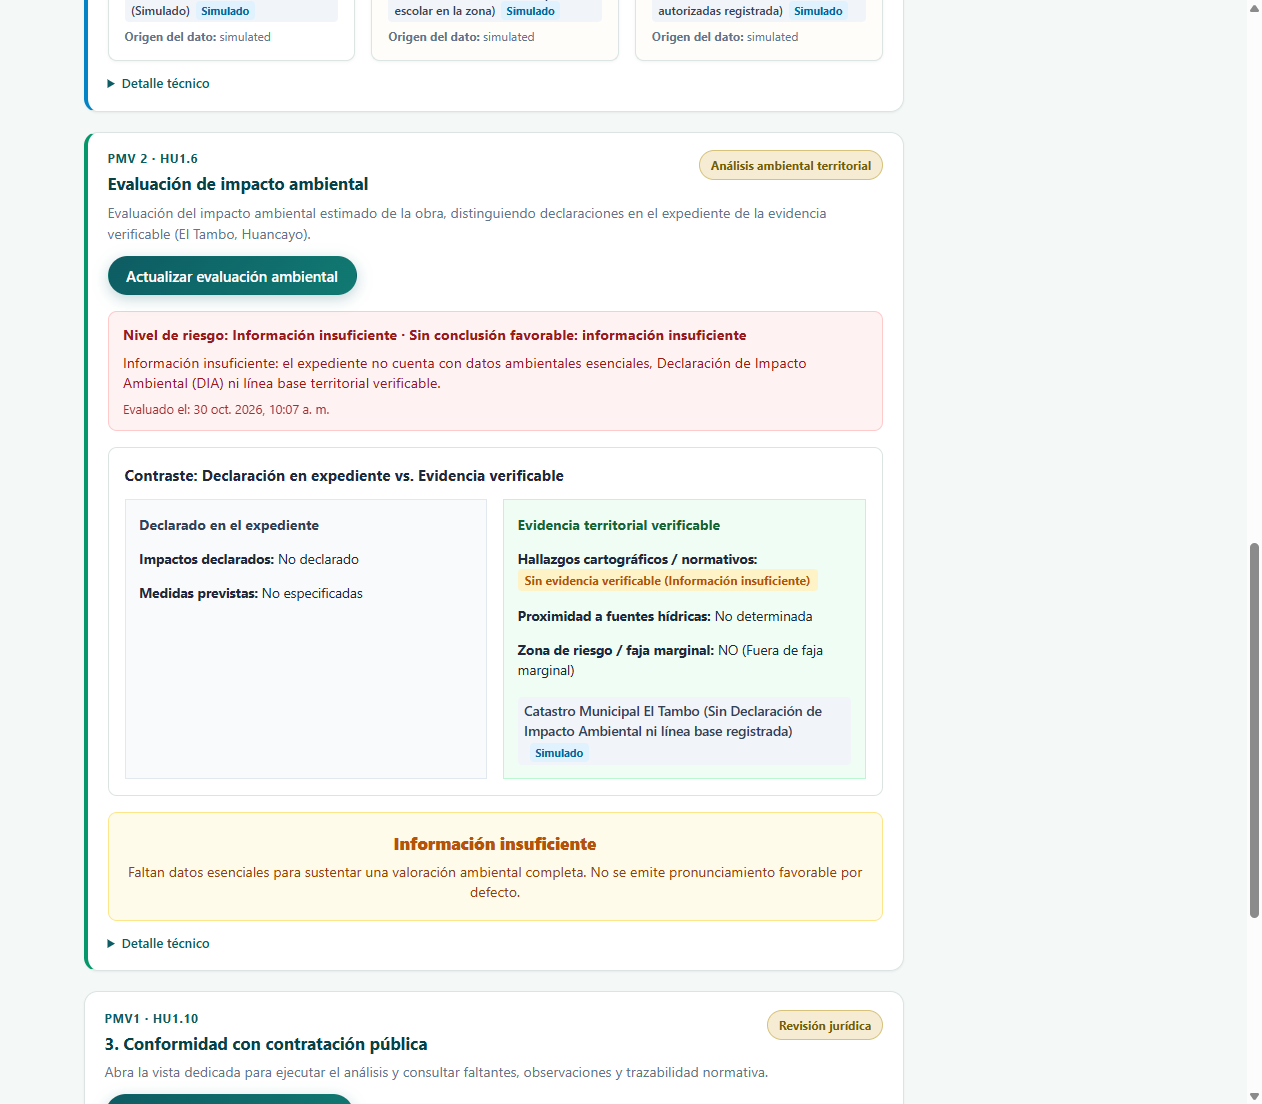
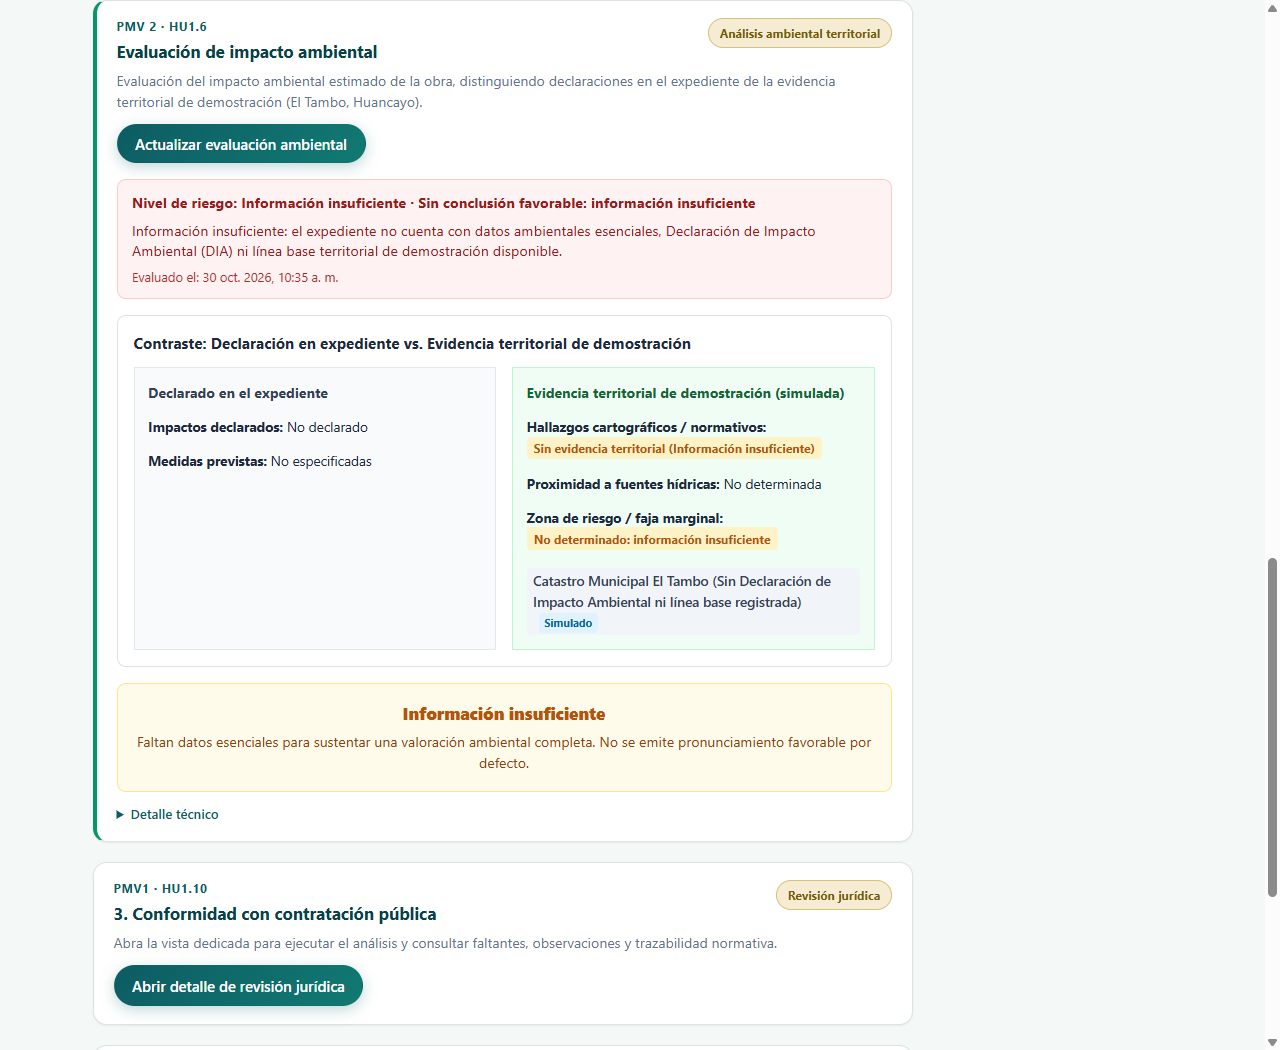
fix: corregir estado indeterminado de riesgo ambiental y desacoplar migracion

diff --git a/frontend/src/features/proyecto/ProyectoDetallePage.tsx b/frontend/src/features/proyecto/ProyectoDetallePage.tsx
@@ -380,7 +380,7 @@ export function ProyectoDetallePage() {
               <span className="review-badge">Análisis ambiental territorial</span>
             </div>
             <p className="flow-hint">
-              Evaluación del impacto ambiental estimado de la obra, distinguiendo declaraciones en el expediente de la evidencia verificable (El Tambo, Huancayo).
+              Evaluación del impacto ambiental estimado de la obra, distinguiendo declaraciones en el expediente de la evidencia territorial de demostración (El Tambo, Huancayo).
             </p>
 
             {hasRole('PLANNER') && (
@@ -432,7 +432,7 @@ export function ProyectoDetallePage() {
                 </Alert>
 
                 <div className="env-contrast-panel">
-                  <h3>Contraste: Declaración en expediente vs. Evidencia verificable</h3>
+                  <h3>Contraste: Declaración en expediente vs. Evidencia territorial de demostración</h3>
                   <div className="env-contrast-grid">
                     <div className="env-contrast-col env-col-declared">
                       <h4>Declarado en el expediente</h4>
@@ -447,11 +447,11 @@ export function ProyectoDetallePage() {
                     </div>
 
                     <div className="env-contrast-col env-col-evidence">
-                      <h4>Evidencia territorial verificable</h4>
+                      <h4>Evidencia territorial de demostración (simulada)</h4>
                       <p>
                         <strong>Hallazgos cartográficos / normativos:</strong>{' '}
                         {environmentalAssessment.declared_vs_evidence.verifiable_evidence || (
-                          <span className="env-insufficient-badge">Sin evidencia verificable (Información insuficiente)</span>
+                          <span className="env-insufficient-badge">Sin evidencia territorial (Información insuficiente)</span>
                         )}
                       </p>
                       <p>
@@ -463,9 +463,13 @@ export function ProyectoDetallePage() {
                       </p>
                       <p>
                         <strong>Zona de riesgo / faja marginal:</strong>{' '}
-                        {environmentalAssessment.declared_vs_evidence.is_in_protected_or_risk_area
-                          ? 'SÍ (Faja marginal intangible / Riesgo alto PDM)'
-                          : 'NO (Fuera de faja marginal)'}
+                        {environmentalAssessment.declared_vs_evidence.is_in_protected_or_risk_area === true ? (
+                          'SÍ (Faja marginal intangible / Riesgo alto PDM)'
+                        ) : environmentalAssessment.declared_vs_evidence.is_in_protected_or_risk_area === false ? (
+                          'NO (Fuera de faja marginal)'
+                        ) : (
+                          <span className="env-insufficient-badge">No determinado: información insuficiente</span>
+                        )}
                       </p>
                       <div className="social-source-tag">
                         {environmentalAssessment.declared_vs_evidence.evidence_source}

diff --git a/frontend/src/types/pmv1.ts b/frontend/src/types/pmv1.ts
@@ -164,7 +164,7 @@ export interface EnvironmentalDeclaredVsEvidence {
   evidence_source: string
   is_simulated: boolean
   proximity_to_water_meters?: number | null
-  is_in_protected_or_risk_area: boolean
+  is_in_protected_or_risk_area: boolean | null
 }
 
 export interface EnvironmentalAssessmentResponse {

diff --git a/backend/tests/test_environmental_assessment_service.py b/backend/tests/test_environmental_assessment_service.py
@@ -110,7 +110,7 @@ def test_environmental_engine_insufficient_data():
             "declared_measures": None,
             "verifiable_evidence": None,
             "proximity_to_water_meters": None,
-            "is_in_protected_or_risk_area": False,
+            "is_in_protected_or_risk_area": None,
             "source_name": "Catastro Municipal El Tambo (Sin DIA ni línea base)",
             "data_origin": "simulated",
         }
@@ -131,6 +131,40 @@ def test_environmental_engine_insufficient_data():
     assert result["favorable"] is not True
     assert "Información insuficiente" in result["summary"]
     assert len(result["impacts"]) == 0
+    assert result["declared_vs_evidence"]["is_in_protected_or_risk_area"] is None
+    assert result["declared_vs_evidence"]["is_in_protected_or_risk_area"] is not False
+
+
+def test_insufficient_evidence_sets_risk_area_as_unknown():
+    """Impide que un dato ambiental ausente se interprete como ausencia de riesgo (False en vez de None)."""
+    # 1. Sin registros: estado desconocido (None), nunca False
+    res_empty = EnvironmentalAssessmentEngine.evaluate(
+        project_id=PROJECT_B_ID,
+        project_code="PRY-B",
+        project_version_id=None,
+        records=[],
+    )
+    assert res_empty["declared_vs_evidence"]["is_in_protected_or_risk_area"] is None
+    assert res_empty["declared_vs_evidence"]["is_in_protected_or_risk_area"] is not False
+
+    # 2. Con registro insuficiente: estado desconocido (None), nunca False
+    res_insufficient = EnvironmentalAssessmentEngine.evaluate(
+        project_id=PROJECT_B_ID,
+        project_code="PRY-B",
+        project_version_id=None,
+        records=[{
+            "environmental_component": "integral",
+            "has_sufficient_data": False,
+            "declared_impacts": None,
+            "declared_measures": None,
+            "verifiable_evidence": None,
+            "proximity_to_water_meters": None,
+            "is_in_protected_or_risk_area": None,
+            "source_name": "Catastro Municipal",
+        }],
+    )
+    assert res_insufficient["declared_vs_evidence"]["is_in_protected_or_risk_area"] is None
+    assert res_insufficient["declared_vs_evidence"]["is_in_protected_or_risk_area"] is not False
 
 
 def test_db_check_constraints_prevent_invalid_environmental_states():
@@ -169,6 +203,19 @@ def test_db_check_constraints_prevent_invalid_environmental_states():
                             'Invalido', '{}', '[]', '[]')
                     """,
                     (uuid4(), PROJECT_C_ID, PROJECT_C_ID, PLANNER_ID),
+                )
+
+        # 4. chk_env_insufficient_no_evidence: has_sufficient_data=FALSE con is_in_protected_or_risk_area=FALSE debe fallar
+        with pytest.raises(CheckViolation):
+            with conn.transaction():
+                conn.execute(
+                    """
+                    INSERT INTO project_environmental_records
+                    (id, project_id, project_code, has_sufficient_data, environmental_component,
+                     is_in_protected_or_risk_area, source_name)
+                    VALUES (%s, %s, 'PRY-TEST', FALSE, 'integral', FALSE, 'test')
+                    """,
+                    (uuid4(), PROJECT_B_ID),
                 )
 
         # 3. chk_high_risk_not_auto_favorable: risk_level='high' con favorable=TRUE debe fallar
@@ -230,6 +277,8 @@ def test_platform_service_environmental_flow():
     assert res_b["risk_level"] == "insufficient"
     assert res_b["favorable"] is None
     assert "Información insuficiente" in res_b["summary"]
+    assert res_b["declared_vs_evidence"]["is_in_protected_or_risk_area"] is None
+    assert res_b["declared_vs_evidence"]["is_in_protected_or_risk_area"] is not False
 
     # 4. get_environmental_assessment recupera la evaluación
     fetched_c = service.get_environmental_assessment(PROJECT_C_ID)

diff --git a/backend/application/services/pmv1_services.py b/backend/application/services/pmv1_services.py
@@ -1496,7 +1496,7 @@ class EnvironmentalAssessmentEngine:
                 "evidence_source": rec.get("source_name") if rec else "Catastro Municipal El Tambo (Sin cobertura)",
                 "is_simulated": True,
                 "proximity_to_water_meters": None,
-                "is_in_protected_or_risk_area": False,
+                "is_in_protected_or_risk_area": None,
             }
             return {
                 "project_id": project_id,
@@ -1509,7 +1509,7 @@ class EnvironmentalAssessmentEngine:
                 "requires_human_review": False,
                 "favorable": None,
                 "favorable_label": "Sin conclusión favorable: información insuficiente",
-                "summary": "Información insuficiente: el expediente no cuenta con datos ambientales esenciales, Declaración de Impacto Ambiental (DIA) ni línea base territorial verificable.",
+                "summary": "Información insuficiente: el expediente no cuenta con datos ambientales esenciales, Declaración de Impacto Ambiental (DIA) ni línea base territorial de demostración disponible.",
                 "declared_vs_evidence": declared_vs_evidence,
                 "impacts": [],
                 "mitigations": [],

diff --git a/database/aplicar.py b/database/aplicar.py
@@ -1,4 +1,4 @@
-"""Crea las tablas del PMV 1 en las tres bases y carga los datos semilla.
+"""Aplica los esquemas, semillas y migraciones en las tres bases de datos locales.
 
 Uso:  python database/aplicar.py
 Se puede ejecutar varias veces: no duplica tablas ni datos.
@@ -9,10 +9,8 @@ CARPETAS = {"auth": "auth_db", "platform": "platform_db", "economic": "economic_
 
 for nombre, carpeta in CARPETAS.items():
     with conectar(nombre) as conn:
-        for archivo in ("01_schema.sql", "02_seed.sql", "03_comentarios.sql", "04_vistas_es.sql"):
-            ruta = BASE / carpeta / archivo
-            if ruta.exists():
-                conn.execute(ruta.read_text(encoding="utf-8"))
+        for ruta in sorted((BASE / carpeta).glob("*.sql")):
+            conn.execute(ruta.read_text(encoding="utf-8"))
         tablas = [r[0] for r in conn.execute(
             "SELECT table_name FROM information_schema.tables "
             "WHERE table_schema = 'public' ORDER BY table_name")]

diff --git a/backend/tests/test_pmv1_official_api.py b/backend/tests/test_pmv1_official_api.py
@@ -415,7 +415,7 @@ class FakePlatform:
                     "evidence_source": "Catastro Municipal El Tambo (Sin cobertura)",
                     "is_simulated": True,
                     "proximity_to_water_meters": None,
-                    "is_in_protected_or_risk_area": False,
+                    "is_in_protected_or_risk_area": None,
                 },
                 "impacts": [],
                 "mitigations": [],
@@ -1085,6 +1085,8 @@ def test_environmental_assessment_pry_b_insufficient_no_favorable(client: TestCl
     assert body["favorable"] is None
     assert body["favorable"] is not True
     assert "Información insuficiente" in body["summary"]
+    assert body["declared_vs_evidence"]["is_in_protected_or_risk_area"] is None
+    assert body["declared_vs_evidence"]["is_in_protected_or_risk_area"] is not False
 
 
 def test_get_environmental_assessment(client: TestClient) -> None:

diff --git a/backend/application/dto/pmv1_dto.py b/backend/application/dto/pmv1_dto.py
@@ -297,7 +297,7 @@ class EnvironmentalDeclaredVsEvidence(BaseModel):
     evidence_source: str
     is_simulated: bool = True
     proximity_to_water_meters: float | None = None
-    is_in_protected_or_risk_area: bool = False
+    is_in_protected_or_risk_area: bool | None = None
 
 
 class EnvironmentalAssessmentResponse(BaseModel):

diff --git a/database/README.md b/database/README.md
@@ -95,3 +95,26 @@ tabla `human_approvals` en `platform_db`:
 - **Actualización de ciclo de vida:** Al emitirse el dictamen, `projects.status` se actualiza
   a `approved`, `rejected` u `observed`.
 - **Vistas en español:** `vista_aprobaciones_humanas` y actualización de `vista_proyectos`.
+
+
+## PMV 2 - Sprint 2: Extensiones Territoriales y Desacoplamiento de Migraciones
+
+### Desacoplamiento de Esquema vs. Semillas de Demostración
+Las migraciones DDL (`03_migration_hu1.4.sql` y `03_migration_hu1.6.sql`) contienen exclusivamente definiciones de tablas, índices, restricciones y modificaciones de esquema (`CREATE TABLE IF NOT EXISTS`, `ALTER TABLE`, `ADD CONSTRAINT`). No insertan ni sobrescriben proyectos ni indicadores de demostración.
+
+- Para aplicar únicamente los cambios de esquema en bases de datos existentes sin sembrar datos simulados:
+  Ejecutar individualmente los archivos de migración DDL (`03_migration_hu1.4.sql`, `03_migration_hu1.6.sql`).
+- Para desarrollo y pruebas locales con datos simulados (PRY-A, PRY-B, PRY-C):
+  `02_seed.sql` contiene las semillas idempotentes.
+
+### HU1.4: Accesibilidad Social Multidimensional
+`platform_db` incorpora:
+- `territorial_social_indicators`: Repositorio de indicadores en salud, educación y transporte.
+- `social_accessibility_assessments`: Evaluaciones registradas formalmente.
+
+### HU1.6: Evaluación de Impacto Ambiental
+`platform_db` incorpora:
+- `project_environmental_records`: Registros de factores ambientales territoriales.
+  La columna `is_in_protected_or_risk_area` es de tres estados (`TRUE`, `FALSE`, o `NULL` / no determinado).
+  La restricción `chk_env_insufficient_no_evidence` exige que si `has_sufficient_data = FALSE`, `is_in_protected_or_risk_area` sea estrictamente `NULL`, impidiendo interpretar la ausencia de datos como ausencia de riesgo.
+- `environmental_assessments`: Evaluaciones con compuerta técnica y restricción que exige revisión técnica humana ante riesgo alto (`chk_high_risk_requires_human_review`).
